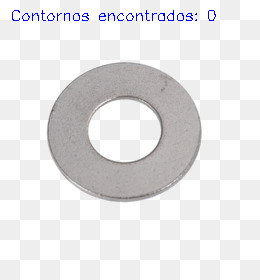
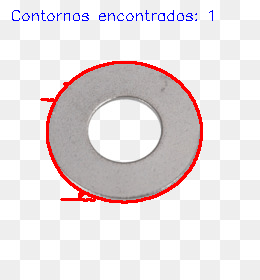
[UPDATE] Adaptacion

diff --git a/Clasificador-de-imagenes/Adaptacion.py b/Clasificador-de-imagenes/Adaptacion.py
@@ -1,101 +1,102 @@
 import cv2
 
-#Imagen a analizar
-#Las fotos de entrada estan en formato png o jpeg
-prueba = './ejemplos/arandela_internet.jpg'
+################################################
+## Algoritmo de Canny para detectar contornos ##
+################################################
+# NOTA: Consideramos que cada contorno encontrado, equivale a un objeto dentro de la imagen.
 
-#####################################################################################################################################
-##Algoritmo de Canny para detectar contornos
-#####################################################################################################################################
-#NOTA:Consideramos que cada contorno encontrado equivale a un objeto dentro de la imagen
-
-#Aca cargamos la imagen
-imagen = cv2.imread(prueba)
-#imagen = cv2.imread('Data-Base/YTrain/ZArandelas/photo0.jpg')
-#imagen = cv2.imread('ejemplos/arandela_internet.jpg')
-#imagen = cv2.imread('ejemplos/arandelas2_internet.png')
-#imagen = cv2.imread('ejemplos/tornillo_prueba.jpg')
-#imagen = cv2.imread('ejemplos/cartas.png') #Por si quiere evaluar otra imagen
+# Cargar imagen
+imagen = cv2.imread('ejemplos/arandela_internet.jpg')
 grises = cv2.cvtColor(imagen, cv2.COLOR_BGR2GRAY)
 
-#bordes = cv2.Canny(grises, 10, 140) #Para arandela_internet
-#bordes = cv2.Canny(grises, 100, 200) #Para arandela_internet
-#bordes = cv2.Canny(grises, 10, 800) #Para tornillo_prueba
-bordes = cv2.Canny(grises, 10, 1300) #Para arandelas2_internet
+"""
+Los umbrales 10 y 140 se determinaron arbitrariamente para esta imagen.
+Si cambiamos el tipo de imagen deberíamos ajustarlos nuevamente
+"""
+bordes = cv2.Canny(grises, 10, 140)
 
-#Para OpenCV4
-ctns, _ = cv2.findContours(bordes, cv2.RETR_EXTERNAL,cv2.CHAIN_APPROX_SIMPLE)
+# Detectar bordes
+ctns, _ = cv2.findContours(bordes, cv2.RETR_EXTERNAL, cv2.CHAIN_APPROX_SIMPLE)
+print('Número de contornos encontrados: ', len(ctns))
 
-cv2.drawContours(imagen, ctns, -1, (0,0,255), 2)
-#Muestra por consola
-#print('Numero de contornos encontrados: ', len(ctns))
-#Incorpora un texto en la parte superior izquierda a la propia imagen
-texto = 'Contornos encontrados: '+ str(len(ctns))
+# Dibujar y escribir en la imagen de input, los contornos detectados
+cv2.drawContours(imagen, ctns, -1, (0, 0, 255), 2)
+texto = 'Contornos encontrados: ' + str(len(ctns))
+cv2.putText(imagen, texto, (10, 20), cv2.FONT_HERSHEY_SIMPLEX, 0.5,
+            (255, 0, 0), 1)
 
-cv2.putText(imagen, texto, (10,20), cv2.FONT_HERSHEY_SIMPLEX, 0.5,
-	(255, 0, 0), 1)
-
-path="./Figuras_test/"
-fileb="Figura_adaptacion_0.png"
+# Guardar resultados
+path = "./Figuras_test/"
+fileb = "Figura_adaptacion_0.png"
 cv2.imwrite(path + fileb, imagen)
 
-#####################################################################################################################################
-##Uso de Thresholding para detectar contornos
-#####################################################################################################################################
-#NOTA: A veces funciona mejor el algoritmo Canny en vez de Thresholding -> depende mucho de las caracteristicas de la imagen de entrada 
+#################################################
+## Uso de Thresholding para detectar contornos ##
+#################################################
+# NOTA: A veces funciona mejor el algoritmo Canny en vez de Thresholding -> depende mucho de las características de la imagen de entrada
 
-#imagen = cv2.imread(prueba)
-#imagen = cv2.imread('ejemplos/arandela_internet.jpg')
-imagen = cv2.imread('ejemplos/arandelas2_internet.png')
-#imagen = cv2.imread('ejemplos/monedas.jpg')
-#imagen = cv2.imread('ejemplos/tornillo_prueba.jpg')
+# Cargar imagen
+imagen = cv2.imread('ejemplos/arandela_internet.jpg')
 
+"""
+Los umbrales 190 y 255 se determinaron arbitrariamente para esta imagen.
+Si cambiamos el tipo de imagen deberíamos ajustarlos nuevamente
+"""
 grises = cv2.cvtColor(imagen, cv2.COLOR_BGR2GRAY)
-_,th =  cv2.threshold(grises, 240, 255, cv2.THRESH_BINARY_INV)
+_, th = cv2.threshold(grises, 190, 255, cv2.THRESH_BINARY_INV)
 
-#Para OpenCV 4
-cnts,_ = cv2.findContours(th, cv2.RETR_EXTERNAL,
-	cv2.CHAIN_APPROX_SIMPLE)
+# Detectar bordes
+cnts, _ = cv2.findContours(th, cv2.RETR_EXTERNAL, cv2.CHAIN_APPROX_SIMPLE)
+print('Número de contornos encontrados: ', len(ctns))
 
-cv2.drawContours(imagen, cnts, -1, (255,0,0),2)
-#print('Contornos: ', len(cnts))
+# Dibujar y escribir en la imagen de input, los contornos detectados
+cv2.drawContours(imagen, cnts, -1, (255, 0, 0), 2)
 
 font = cv2.FONT_HERSHEY_SIMPLEX
-i=0
+i = 0
 for c in cnts:
-	M=cv2.moments(c)
-	if (M["m00"]==0): M["m00"]=1
-	x=int(M["m10"]/M["m00"])
-	y=int(M['m01']/M['m00'])
+    # Determinar los momentos
+    M = cv2.moments(c)
+    if M["m00"] == 0:
+        M["m00"] = 1
 
-	mensaje = 'Num :' + str(i+1)
-	cv2.putText(imagen,mensaje,(x-40,y),font,0.75,
-		(255,0,0),2,cv2.LINE_AA)
-	cv2.drawContours(imagen, [c], 0, (255,0,0),2)
-	i = i+1
+    x = int(M["m10"] / M["m00"])
+    y = int(M['m01'] / M['m00'])
 
-path="./Figuras_test/"
-fileb="Figura_adaptacion_1.png"
+    mensaje = 'Num :' + str(i + 1)
+    cv2.putText(imagen, mensaje, (x - 40, y), font, 0.75,
+                (255, 0, 0), 2, cv2.LINE_AA)
+    cv2.drawContours(imagen, [c], 0, (255, 0, 0), 2)
+    i = i + 1
+
+# Guardar resultados
+path = "./Figuras_test/"
+fileb = "Figura_adaptacion_1.png"
 cv2.imwrite(path + fileb, imagen)
 
+####################################################
+## Recortar imagen a partir de Algoritmo de Canny ##
+####################################################
+# NOTA: Consideramos que este programa solo es capaz de analizar un objeto dentro de la imagen
 
-#####################################################################################################################################
-##Recortar imagen a partir de Algoritmo de Canny
-#####################################################################################################################################
-#NOTA: Consideramos que este programa solo es capaz de analizar un objeto dentro de la imagen
-
-imagen = cv2.imread(prueba)
+# Cargar imagen
+imagen = cv2.imread('ejemplos/arandela_internet.jpg')
 grises = cv2.cvtColor(imagen, cv2.COLOR_BGR2GRAY)
+
+"""
+Los umbrales 100 y 200 se determinaron arbitrariamente para esta imagen.
+Si cambiamos el tipo de imagen deberíamos ajustarlos nuevamente
+"""
 bordes = cv2.Canny(grises, 100, 200)
 
-#Para OpenCV4
-ctns, _ = cv2.findContours(bordes, cv2.RETR_EXTERNAL,cv2.CHAIN_APPROX_SIMPLE)
+# Detectar bordes
+ctns, _ = cv2.findContours(bordes, cv2.RETR_EXTERNAL, cv2.CHAIN_APPROX_SIMPLE)
+print('Número de contornos encontrados: ', len(ctns))
 
-#Determinar coordenadas del rectangulo que encierra al objeto
-x,y,w,h = cv2.boundingRect(ctns[0]) #x,y: coordenada de la parte izquierda de arriba. w: ancho y h:alto
+# Determinar coordenadas del rectángulo que encierra al objeto
+x, y, w, h = cv2.boundingRect(ctns[0])  # x,y: coordenada de la parte izquierda de arriba. w: ancho y h:alto
+crop_img = imagen[y:y + h, x:x + w]
 
-crop_img = imagen[y:y+h, x:x+w]
-
-path="./Figuras_test/"
-fileb="Figura_adaptacion_2.png"
+path = "./Figuras_test/"
+fileb = "Figura_adaptacion_2.png"
 cv2.imwrite(path + fileb, crop_img)
